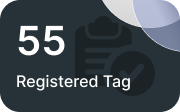
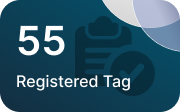
profile section initalized

diff --git a/src/screens/home/Home.jsx b/src/screens/home/Home.jsx
@@ -10,6 +10,7 @@ import dashboardCardData from './dashboardCardData'
 import React, { useState } from 'react'
 import SwipperComponent from './SwipperComponent'
 import { useNavigation } from '@react-navigation/native'
+import LinearGradient from 'react-native-linear-gradient'
 
 const DashboardCards = ({ title, subTitle, icon, router }) => {
   const navigation = useNavigation()
@@ -63,29 +64,18 @@ const Home = () => {
         <Image source={require('../../assets/dashboard/tagInStock.png')} />
       </View>
       <View style={{ flexDirection: 'row' }}>
-        <View>
-          {dashboardCardData.slice(0, 3).map((data, index) => (
-            <View key={index}>
-              <DashboardCards
-                title={data.title}
-                subTitle={data.subTitle}
-                icon={data.icon}
-                router={data.router}
-              />
-            </View>
-          ))}
-        </View>
-        <View>
-          {dashboardCardData.slice(3, 6).map((data, index) => (
-            <View key={index}>
-              <DashboardCards
-                title={data.title}
-                subTitle={data.subTitle}
-                icon={data.icon}
-              />
-            </View>
-          ))}
-        </View>
+        <DashboardCards
+          title={'BAJAJ'}
+          subTitle={'Issuance'}
+          icon={require('../../assets/dashboard/customerOnBoard.png')}
+          router={'customerRegistration'}
+        />
+        <DashboardCards
+          title={'Tag'}
+          subTitle={'Replacement'}
+          icon={require('../../assets/dashboard/tagReplacement.png')}
+          router={'tagReplacement'}
+        />
       </View>
       <View style={{ alignItems: 'center', marginTop: '1%' }}>
         <View style={styles.divider}></View>
@@ -109,16 +99,20 @@ const Home = () => {
             style={styles.timeFields}
             onPress={() => setActiveTime(data)}
           >
-            <View>
-              <Text
-                style={[
-                  styles.timeText,
-                  activeTime === data && styles.activeTimeText
-                ]}
+            {activeTime === data ? (
+              <LinearGradient
+                colors={['#02546D', '#142D40']}
+                style={styles.gradient}
               >
-                {data}
-              </Text>
-            </View>
+                <Text style={[styles.timeText, styles.activeTimeText]}>
+                  {data}
+                </Text>
+              </LinearGradient>
+            ) : (
+              <View>
+                <Text style={styles.timeText}>{data}</Text>
+              </View>
+            )}
           </Pressable>
         ))}
       </View>
@@ -155,6 +149,9 @@ const styles = StyleSheet.create({
     flex: 1,
     alignItems: 'center'
   },
+  gradient: {
+    borderRadius: 25
+  },
   timeText: {
     color: '#000000',
     fontSize: 16,
@@ -164,7 +161,6 @@ const styles = StyleSheet.create({
   },
   activeTimeText: {
     color: 'white',
-    backgroundColor: '#263238',
     paddingHorizontal: '15%',
     borderRadius: 25,
     fontFamily: 'Proxima Nova'

diff --git a/src/screens/profile/Profile.jsx b/src/screens/profile/Profile.jsx
@@ -1,12 +1,90 @@
-import { View, Text } from 'react-native'
-import React from 'react'
+import { View, Text, TouchableOpacity, StyleSheet } from 'react-native'
+import React, { useState } from 'react'
+import InputText from '../../components/common/InputText'
 
 const Profile = () => {
+  const [active, setActive] = useState('password')
   return (
-    <View>
-      <Text style={{ color: 'red' }}>Profile</Text>
+    <View style={{ flex: 1, padding: '5%' }}>
+      <View
+        style={{
+          justifyContent: 'center',
+          alignItems: 'center'
+        }}
+      >
+        <View style={styles.tabContainer}>
+          <TouchableOpacity
+            style={[
+              styles.tabSection,
+              active === 'password' && styles.activeState
+            ]}
+            onPress={() => setActive('password')}
+          >
+            <Text
+              style={[
+                styles.tabContent,
+                active === 'password' && styles.activeContent
+              ]}
+            >
+              Step 1
+            </Text>
+          </TouchableOpacity>
+          <View style={styles.verticalDivider} />
+          <TouchableOpacity
+            onPress={() => setActive('otp')}
+            style={[styles.tabSection, active === 'otp' && styles.activeState]}
+          >
+            <Text
+              style={[
+                styles.tabContent,
+                active === 'otp' && styles.activeContent
+              ]}
+            >
+              Step 2
+            </Text>
+          </TouchableOpacity>
+        </View>
+      </View>
+      <Text>Personal Information</Text>
+
+      <InputText placeholder="First Name" value="" onChangeText={() => {}} />
     </View>
   )
 }
+
+const styles = StyleSheet.create({
+  tabContainer: {
+    flexDirection: 'row',
+    alignItems: 'center',
+    justifyContent: 'center',
+    paddingVertical: 10,
+    width: '90 %',
+    marginTop: 20
+  },
+  tabSection: {
+    width: '50%'
+  },
+  activeState: {
+    borderBottomColor: '#000000',
+    borderBottomWidth: 2
+  },
+  activeContent: {
+    color: '#000000'
+  },
+  verticalDivider: {
+    height: '100%',
+    width: 2,
+    backgroundColor: '#CCCCCC'
+  },
+  text: {
+    color: '#263238',
+    margin: '5%',
+    textAlign: 'center'
+  },
+  tabContent: {
+    alignSelf: 'center',
+    color: '#807C7C'
+  }
+})
 
 export default Profile

diff --git a/src/navigation/bottom/BottomNavigator.js b/src/navigation/bottom/BottomNavigator.js
@@ -13,6 +13,7 @@ import ordersIcon from '../../assets/tabNavigation/orders.png';
 import homeIcon from '../../assets/tabNavigation/home.png';
 import walletIcon from '../../assets/tabNavigation/wallet.png';
 import profileIcon from '../../assets/tabNavigation/profile.png';
+import LinearGradient from 'react-native-linear-gradient';
 
 const Bottom = createBottomTabNavigator();
 const BottomNavigator = () => {
@@ -21,9 +22,9 @@ const BottomNavigator = () => {
       initialRouteName='home'
       screenOptions={{
         tabBarStyle: {
-          height: 83
+          height: 83,
         },
-        tabBarShowLabel: false
+        tabBarShowLabel: false,
       }}
     >
       <Bottom.Screen
@@ -83,11 +84,18 @@ const BottomNavigator = () => {
 const TabIcon = ({ icon, focused }) => {
   return (
     <View style={styles.tabIconContainer}>
-      {focused && <View style={styles.focusIndicator} />}
-      <Image
-        source={icon}
-        style={[styles.tabIcon, { tintColor: focused ? 'white' : 'black' }]}
-      />
+      {focused ? (
+        <LinearGradient
+          colors={['#02546D', '#142D40']}
+          start={{ x: 0, y: 0 }}
+          end={{ x: 1, y: 1 }}
+          style={styles.gradientOverlay}
+        >
+          <Image source={icon} style={[styles.tabIcon, styles.focusedIcon]} />
+        </LinearGradient>
+      ) : (
+        <Image source={icon} style={styles.tabIcon} />
+      )}
     </View>
   );
 };
@@ -95,16 +103,23 @@ const TabIcon = ({ icon, focused }) => {
 const styles = StyleSheet.create({
   tabIconContainer: {
     alignItems: 'center',
+    justifyContent: 'center',
+    position: 'relative',
   },
-  focusIndicator: {
-    position: 'absolute',
-    width: 60,
-    height: 60,
-    borderRadius: 50,
-    backgroundColor: 'black',
-    bottom: -15,
+  gradientOverlay: {
+    padding: 15, // Add padding around the icon
+    borderRadius: 50, // Adjust the border radius if needed
+    alignItems: 'center', // Center the icon within the gradient
+    justifyContent: 'center',
+  },
+  tabIcon: {
+    width: 30,
+    height: 30,
+    tintColor: 'black', // Default color for unfocused icons
+  },
+  focusedIcon: {
+    tintColor: 'white', // Make the tint color white for focused icons
   },
 });
-
 
 export default BottomNavigator;

diff --git a/src/screens/home/dashboardCardData.js b/src/screens/home/dashboardCardData.js
@@ -1,40 +1,40 @@
 const dashboardCardData = [
     {
-        title: 'Customer',
-        subTitle: 'Onboard',
+        title: 'BAJAJ',
+        subTitle: 'Issuance',
         icon: require('../../assets/dashboard/customerOnBoard.png'),
         router: "customerRegistration"
     },
+    // {
+    //     title: 'Tag',
+    //     subTitle: 'Replacement',
+    //     icon: require('../../assets/dashboard/tagReplacement.png'),
+    //     router: "tagReplacement"
+    // },
+    // {
+    //     title: 'NPCI Tag',
+    //     subTitle: 'Status',
+    //     icon: require('../../assets/dashboard/NPCItag.png'),
+    //     router: "NpciTag"
+    // },
     {
-        title: 'Tag',
-        subTitle: 'Replacement',
-        icon: require('../../assets/dashboard/tagReplacement.png'),
-        router: "tagReplacement"
-    },
-    {
-        title: 'NPCI Tag',
-        subTitle: 'Status',
-        icon: require('../../assets/dashboard/NPCItag.png'),
-        router: "NpciTag"
-    },
-    {
-        title: 'Tag',
-        subTitle: 'Registration',
+        title: 'SBI',
+        subTitle: 'Issuance',
         icon: require('../../assets/dashboard/tagRegistration.png'),
         router: "tagRegistration"
     },
-    {
-        title: 'Customer',
-        subTitle: 'Info',
-        icon: require('../../assets/dashboard/customerInfo.png'),
-        router: "customerInfo"
-    },
-    {
-        title: 'Recharge',
-        subTitle: 'FASTag',
-        icon: require('../../assets/dashboard/rechargeFasttag.png'),
-        router: "rechargeFastTag"
-    }
+    // {
+    //     title: 'Customer',
+    //     subTitle: 'Info',
+    //     icon: require('../../assets/dashboard/customerInfo.png'),
+    //     router: "customerInfo"
+    // },
+    // {
+    //     title: 'Recharge',
+    //     subTitle: 'FASTag',
+    //     icon: require('../../assets/dashboard/rechargeFasttag.png'),
+    //     router: "rechargeFastTag"
+    // }
 ]
 
 export default dashboardCardData

diff --git a/src/components/DrawerHeader.jsx b/src/components/DrawerHeader.jsx
@@ -1,11 +1,12 @@
 import { View, Text, TouchableOpacity, Image, StyleSheet } from 'react-native'
 import { useNavigation, DrawerActions } from '@react-navigation/native'
 import React from 'react'
+import LinearGradient from 'react-native-linear-gradient'
 
 const DrawerHeader = () => {
   const navigation = useNavigation()
   return (
-    <View style={styles.container}>
+    <LinearGradient colors={['#02546D', '#142D40']} style={styles.container}>
       <View>
         <TouchableOpacity
           onPress={() => navigation.dispatch(DrawerActions.openDrawer())}
@@ -27,7 +28,7 @@ const DrawerHeader = () => {
           <Image source={require('../assets/notificationBell.png')} />
         </TouchableOpacity>
       </View>
-    </View>
+    </LinearGradient>
   )
 }
 
